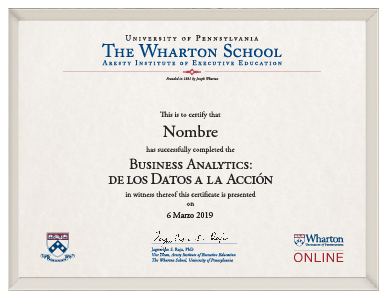
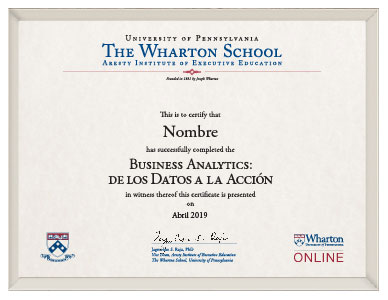
Ajustes de certificado

diff --git a/index.html b/index.html
@@ -75,7 +75,7 @@
 
         <div class="price-container">
             <div class="whitSBo fs20 negro4B">
-                06 / 03 / 19
+                25 / abril / 2019
             </div>
             <div class="whitMe fs16 negro19">
                 8 SEMANAS
